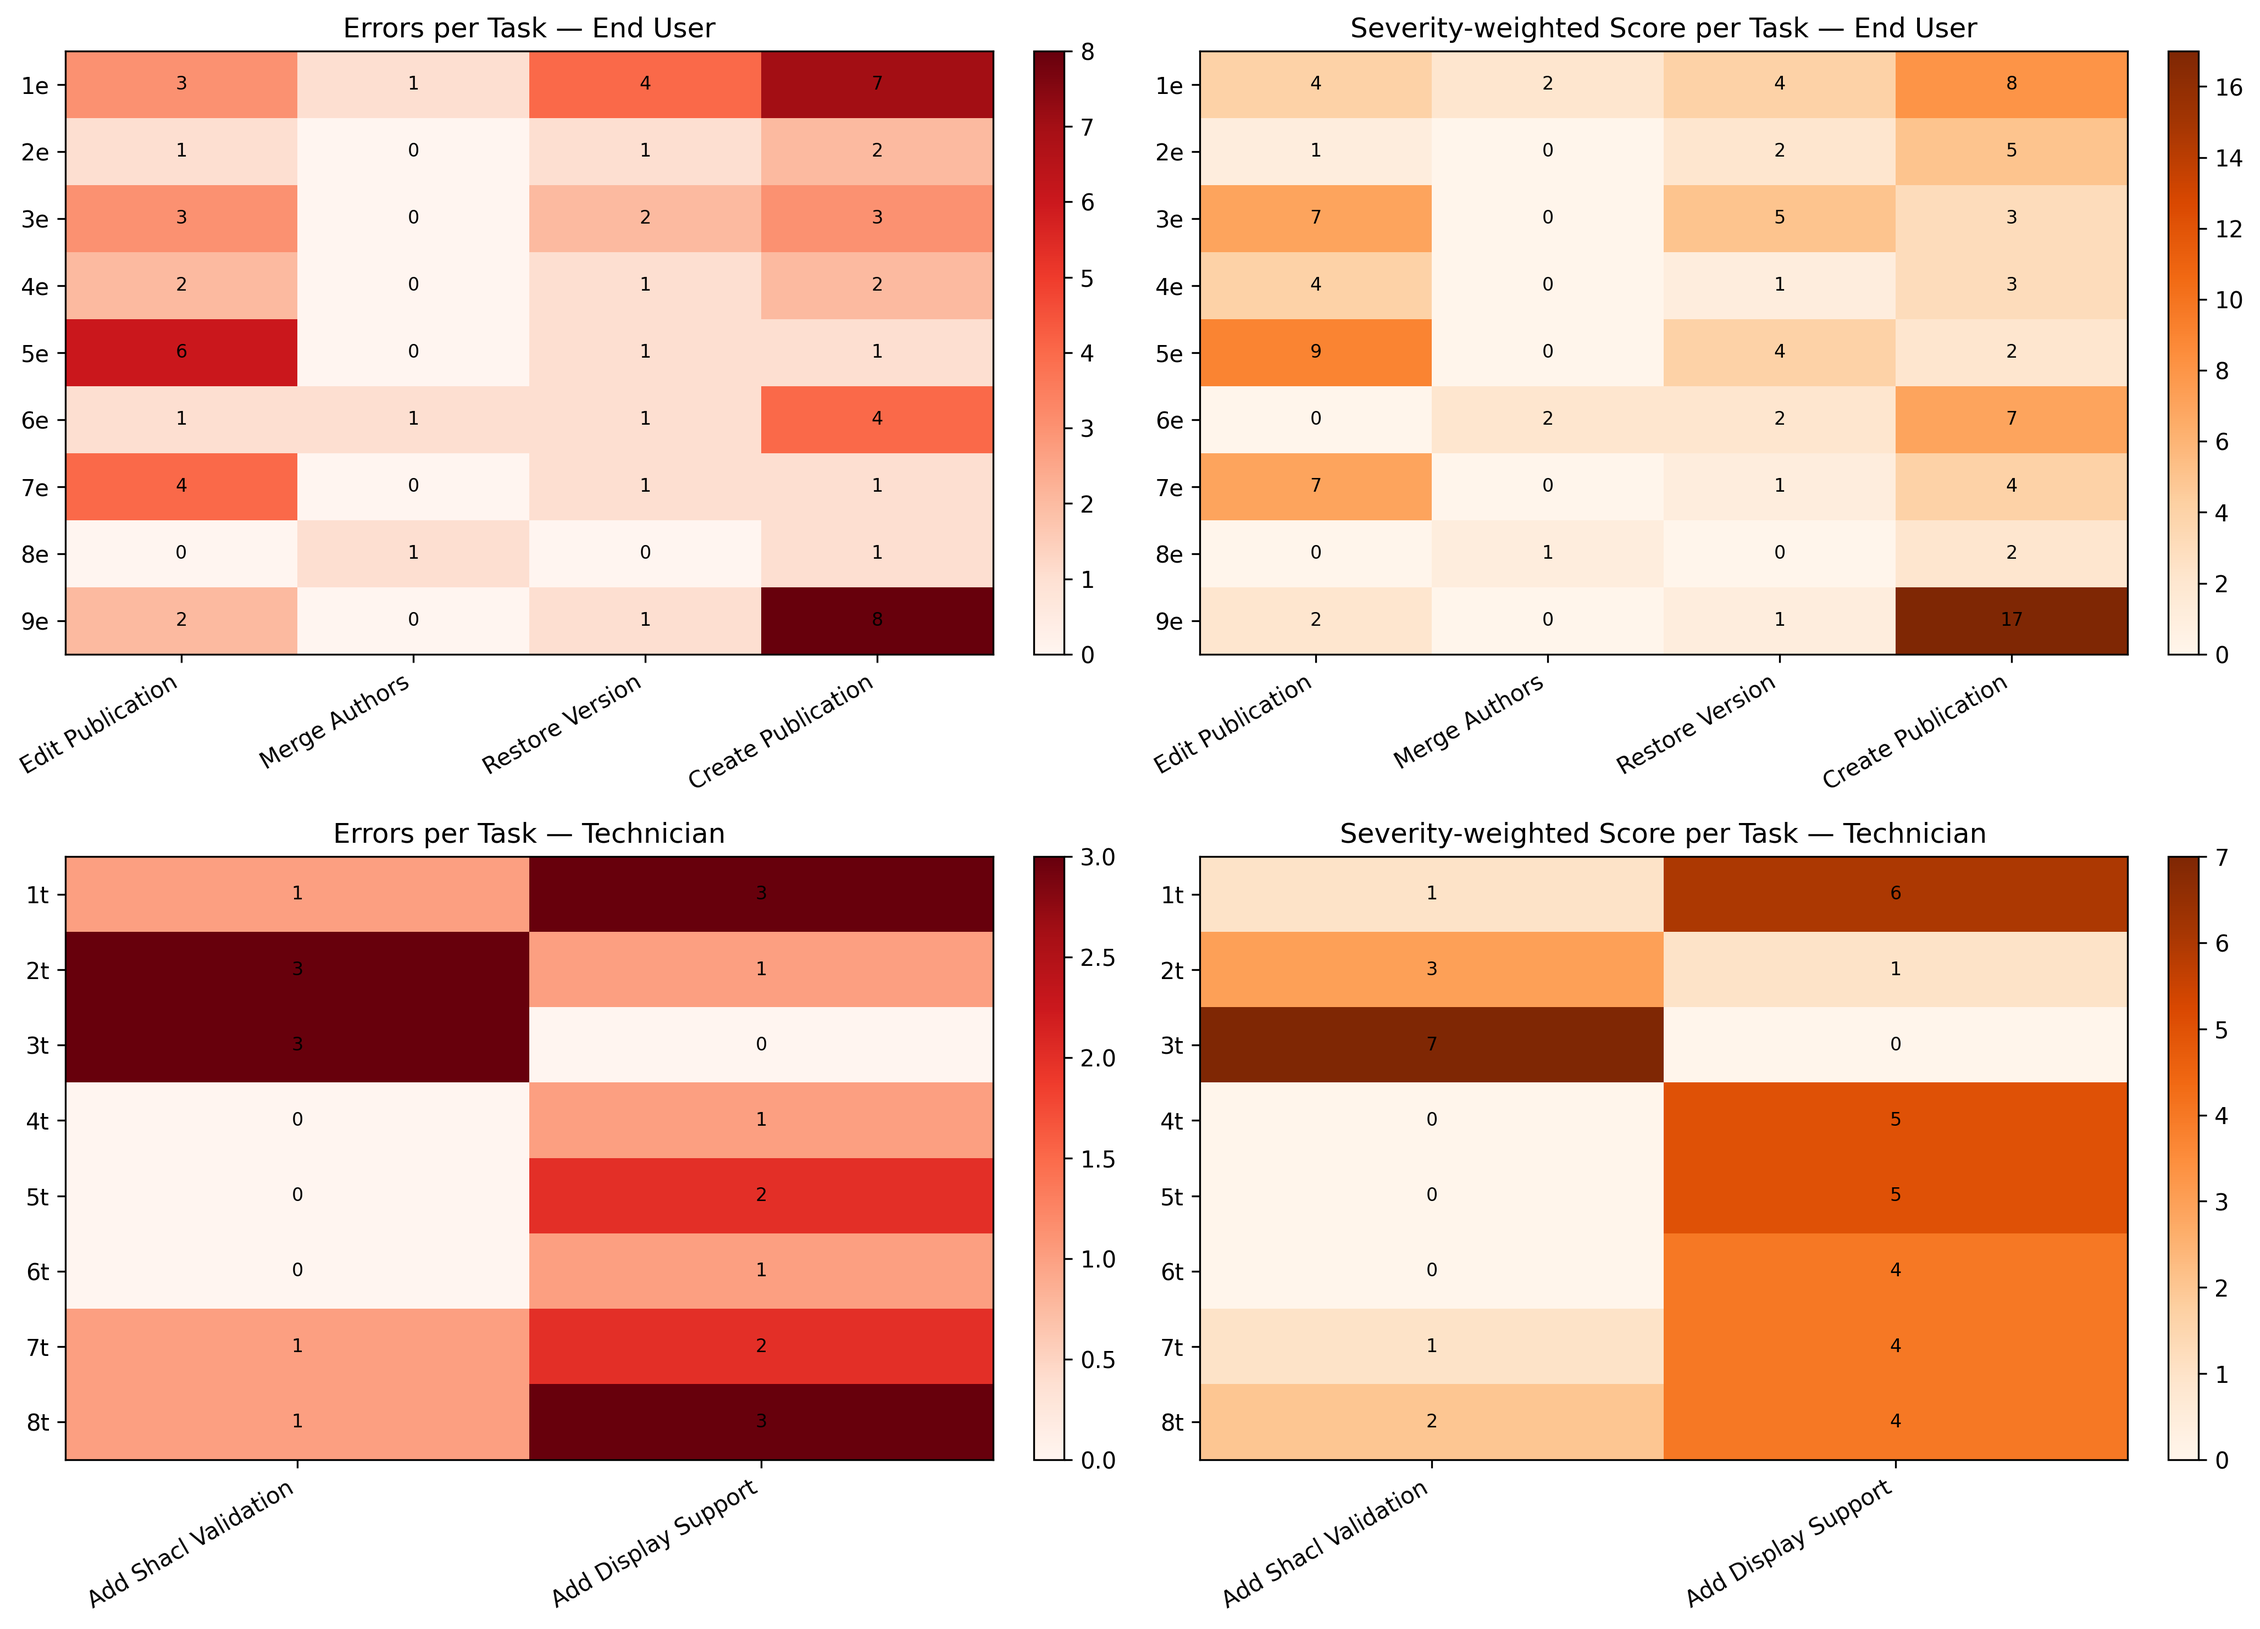
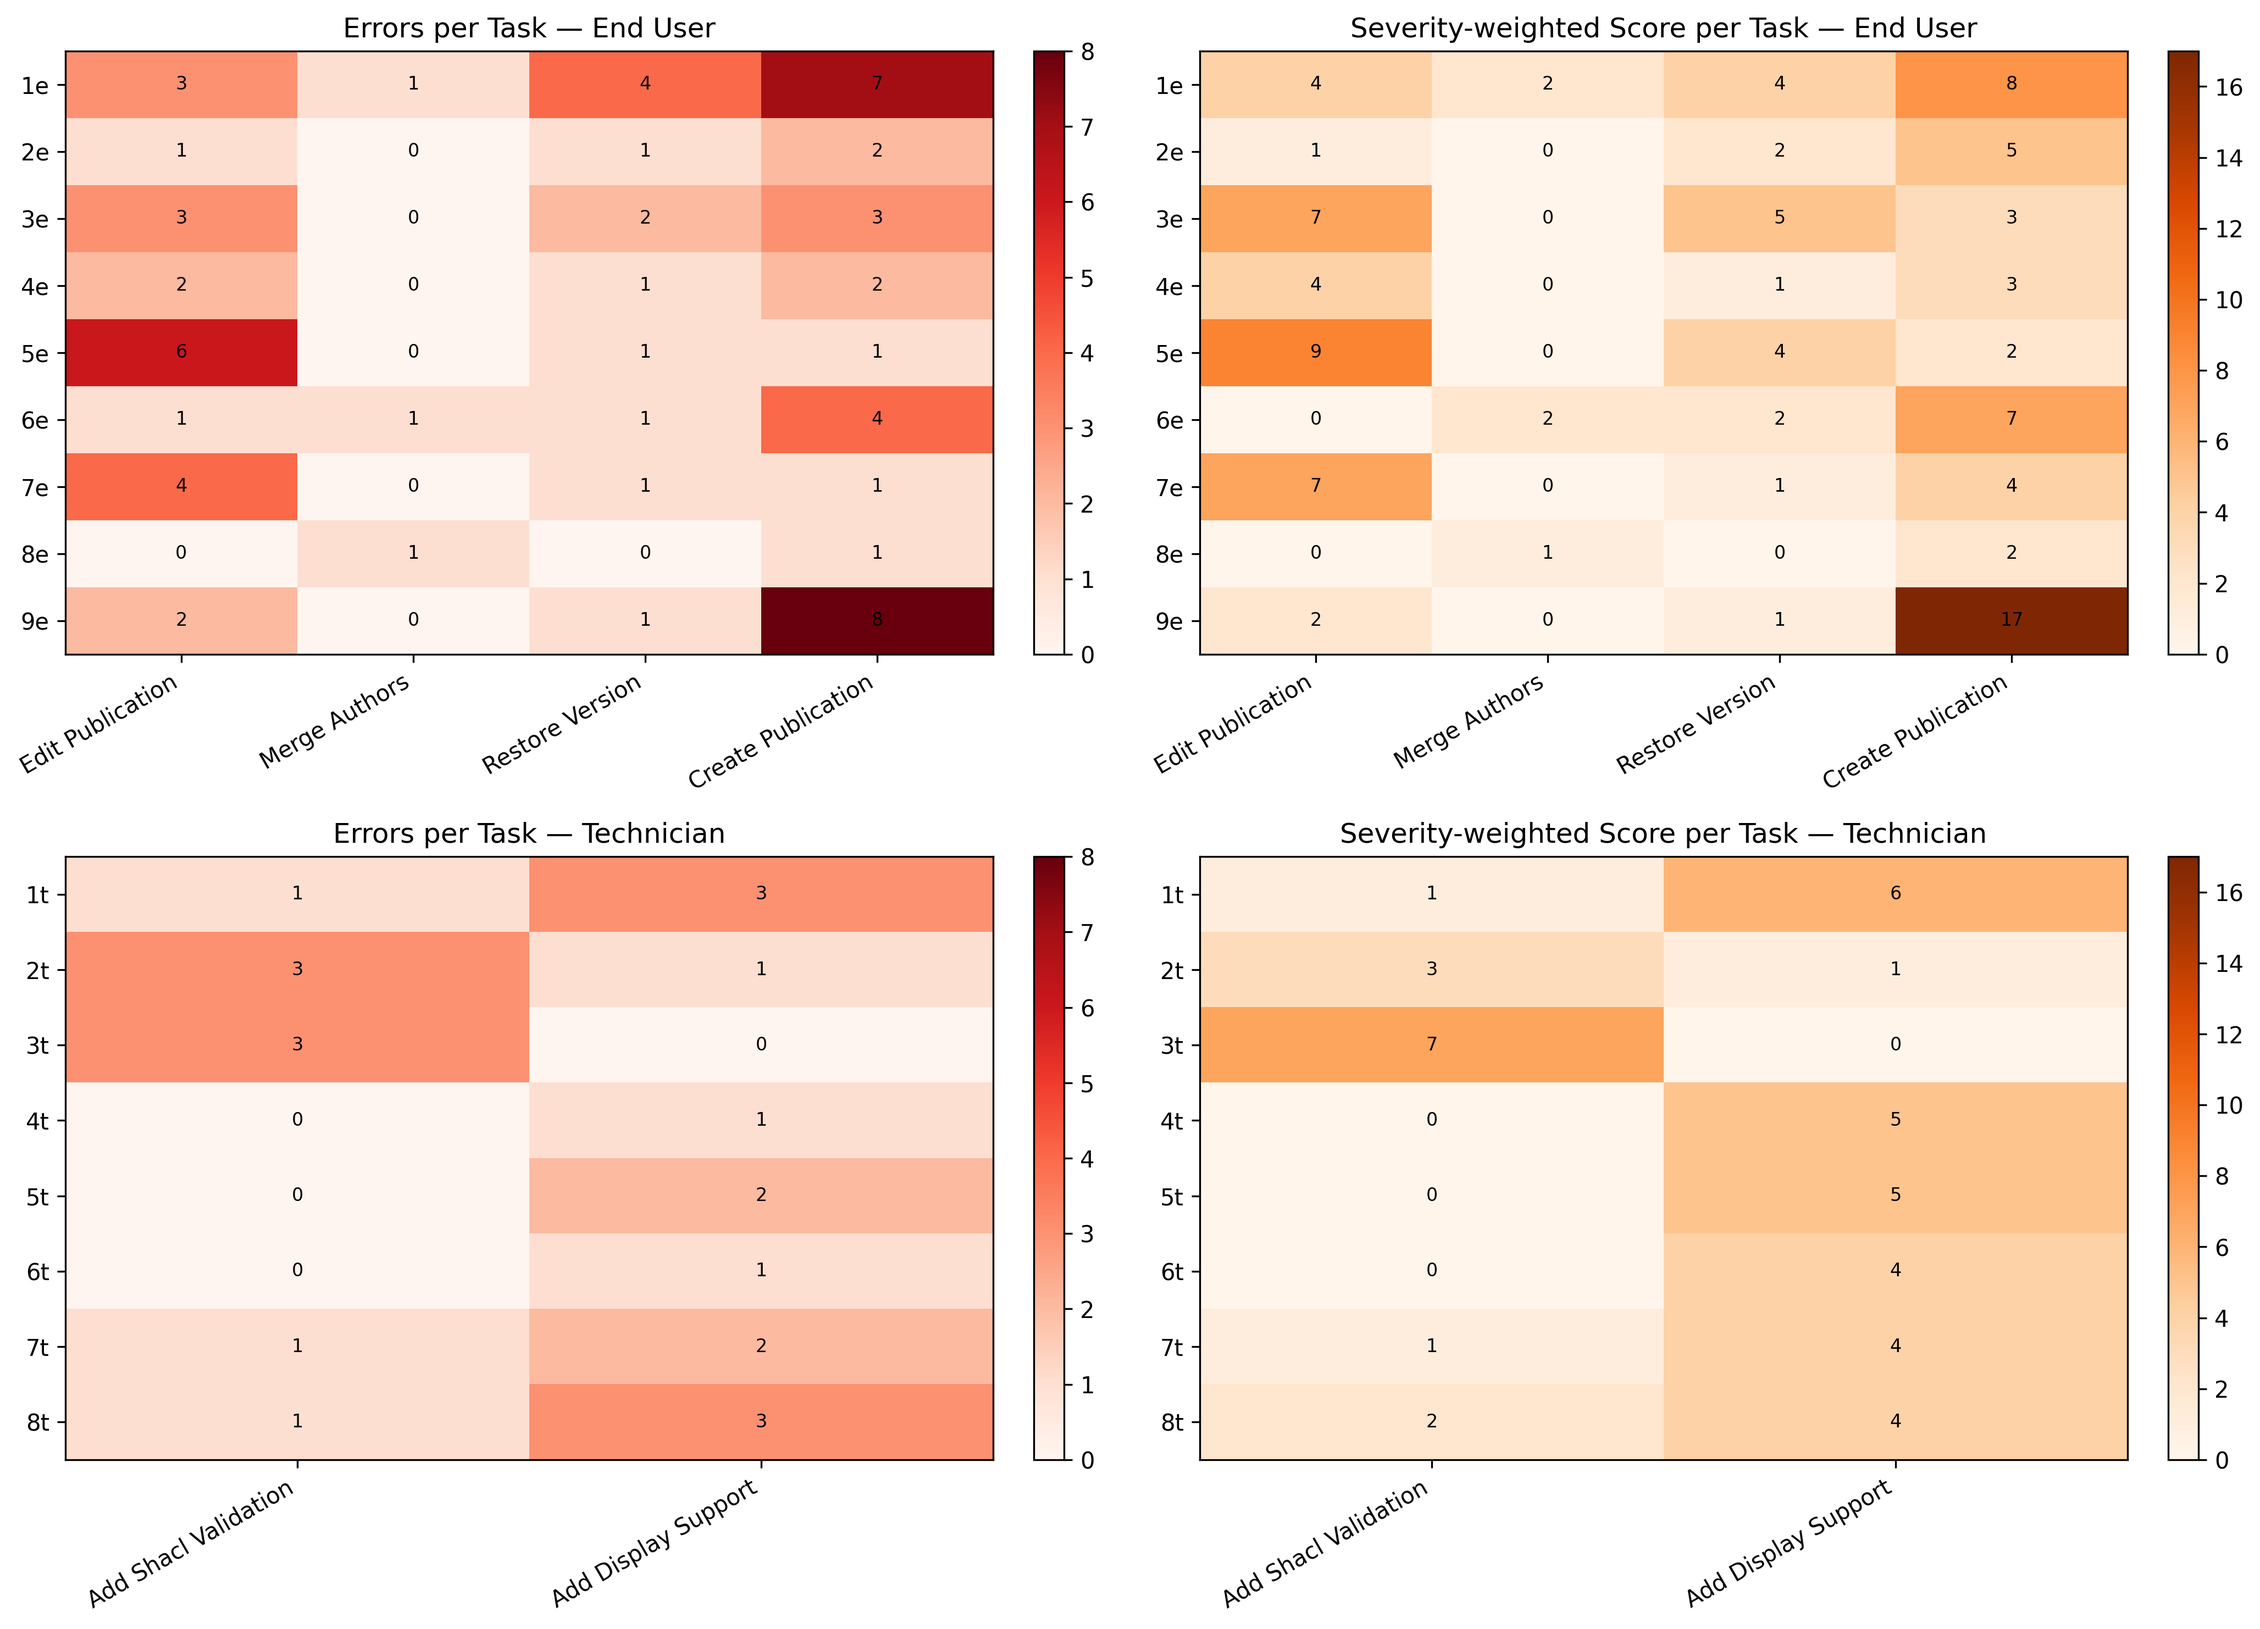
feat(user-testing): add unified color scales to task error heatmaps for improved comparison
Implemented global color scale normalization across user types in error heatmaps, ensuring that both error count and severity-weighted heatmaps use consistent color ranges. This enhancement enables more accurate visual comparison of error patterns between end-users and technicians.

Changed region(s): [[0.0311, 0.5275, 0.4669, 0.8998], [0.5292, 0.5275, 0.965, 0.8998]]

diff --git a/user_testing/analysis_software/task_plots.py b/user_testing/analysis_software/task_plots.py
@@ -272,8 +272,8 @@ def plot_duration_distributions(df: pd.DataFrame, output_dir: Path):
     plt.close(fig)
     print(f"Saved: {out}")
 
-def _draw_heatmap(ax: plt.Axes, matrix: np.ndarray, row_labels: List[str], col_labels: List[str], title: str, cmap: str):
-    im = ax.imshow(matrix, aspect='auto', cmap=cmap)
+def _draw_heatmap(ax: plt.Axes, matrix: np.ndarray, row_labels: List[str], col_labels: List[str], title: str, cmap: str, vmin: float = None, vmax: float = None):
+    im = ax.imshow(matrix, aspect='auto', cmap=cmap, vmin=vmin, vmax=vmax)
     ax.set_xticks(np.arange(len(col_labels)))
     ax.set_xticklabels(col_labels, rotation=30, ha='right')
     ax.set_yticks(np.arange(len(row_labels)))
@@ -306,7 +306,39 @@ def plot_error_heatmaps(df: pd.DataFrame, output_dir: Path):
     # Ensure axs is always 2D
     if n_user_types == 1:
         axs = axs.reshape(1, -1)
-    
+
+    # Pre-calculate global max values for unified color scales
+    global_max_count = 0.0
+    global_max_weight = 0.0
+
+    for user_type in user_types:
+        ut_df = df[df['user_type'] == user_type].copy()
+        if ut_df.empty:
+            continue
+
+        participants_raw = sorted(ut_df['participant_id'].dropna().unique().tolist())
+
+        if "__task_order_idx" in ut_df.columns:
+            order_df = ut_df.dropna(subset=['task_key']).groupby('task_key')['__task_order_idx'].min().reset_index()
+            order_df.sort_values(['__task_order_idx', 'task_key'], inplace=True)
+            tasks_keys = order_df['task_key'].tolist()
+        else:
+            tasks_keys = sorted(ut_df['task_key'].dropna().unique().tolist())
+
+        if not participants_raw or not tasks_keys:
+            continue
+
+        pivot_count = ut_df.pivot_table(index='participant_id', columns='task_key', values='errors_encountered', aggfunc='first').reindex(index=participants_raw, columns=tasks_keys)
+        pivot_weight = ut_df.pivot_table(index='participant_id', columns='task_key', values='severity_weighted_score', aggfunc='first').reindex(index=participants_raw, columns=tasks_keys)
+
+        max_count = np.nanmax(pivot_count.to_numpy(dtype=float))
+        max_weight = np.nanmax(pivot_weight.to_numpy(dtype=float))
+
+        if not np.isnan(max_count):
+            global_max_count = max(global_max_count, max_count)
+        if not np.isnan(max_weight):
+            global_max_weight = max(global_max_weight, max_weight)
+
     for ut_idx, user_type in enumerate(user_types):
         # Filter data for this user type
         ut_df = df[df['user_type'] == user_type].copy()
@@ -336,9 +368,9 @@ def plot_error_heatmaps(df: pd.DataFrame, output_dir: Path):
         m_count = pivot_count.to_numpy(dtype=float)
         m_weight = pivot_weight.to_numpy(dtype=float)
         
-        # Draw heatmaps for this user type
-        im1 = _draw_heatmap(axs[ut_idx, 0], m_count, participants, tasks, f'Errors per Task — {_humanize_user_type(user_type)}', 'Reds')
-        im2 = _draw_heatmap(axs[ut_idx, 1], m_weight, participants, tasks, f'Severity-weighted Score per Task — {_humanize_user_type(user_type)}', 'Oranges')
+        # Draw heatmaps for this user type with unified color scales
+        im1 = _draw_heatmap(axs[ut_idx, 0], m_count, participants, tasks, f'Errors per Task — {_humanize_user_type(user_type)}', 'Reds', vmin=0, vmax=global_max_count)
+        im2 = _draw_heatmap(axs[ut_idx, 1], m_weight, participants, tasks, f'Severity-weighted Score per Task — {_humanize_user_type(user_type)}', 'Oranges', vmin=0, vmax=global_max_weight)
         
         # Add colorbars
         fig.colorbar(im1, ax=axs[ut_idx, 0], fraction=0.046, pad=0.04)
